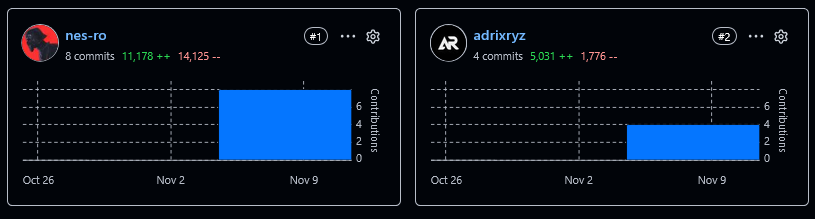
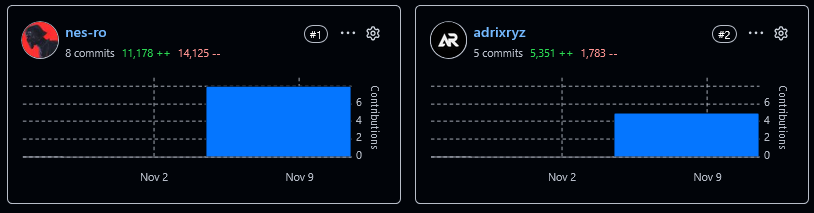
docs: corregir pequeños detalles

diff --git a/docs/42-sprint-2.md b/docs/42-sprint-2.md
@@ -191,10 +191,12 @@ La siguiente tabla reúne los commits de los repositorios en los que se trabajar
 | [spotgo-backend](https://github.com/yachiqo-upc/spotgo-backend) | feature/update-backend | 4d19261 | feat(monitoring): implement occupancy tracking, alerts and photo evidence, and integrate all five bounded contexts | 2026-11-10 |
 | [spotgo-backend](https://github.com/yachiqo-upc/spotgo-backend) | develop | 06a99f6 | feat: general guidelines for docs | 2026-11-11 |
 | [spotgo-backend](https://github.com/yachiqo-upc/spotgo-backend) | develop | e21fdf1 | feat: android app alignments | 2026-11-12 |
+| [spotgo-backend](https://github.com/yachiqo-upc/spotgo-backend) | develop | 33eff27 | feat: add driver account updates and seed data | 2026-11-12 |
 | [spotgo-android-app](https://github.com/yachiqo-upc/spotgo-android-app) | feature/auth-access-flow | d1fda5c | feat: add driver access flow with in-memory data layer | 2026-11-08 |
 | [spotgo-android-app](https://github.com/yachiqo-upc/spotgo-android-app) | feature/driver-workspace | ee730db | feat: add driver workspace screens and navigation | 2026-11-08 |
 | [spotgo-android-app](https://github.com/yachiqo-upc/spotgo-android-app) | feature/tests | 697e391 | test: add unit and instrumented test suites | 2026-11-08 |
 | [spotgo-android-app](https://github.com/yachiqo-upc/spotgo-android-app) | develop | f8b9205 | feat: backend connection | 2026-11-12 |
+| [spotgo-android-app](https://github.com/yachiqo-upc/spotgo-android-app) | develop | b5aac5b | feat: improve driver account and payment flows | 2026-11-12 |
 | [spotgo-flutter-app](https://github.com/yachiqo-upc/spotgo-flutter-app) | feature/parking-admin-flutter | 2bf176a | chore(flutter): configure theme and assets | 2026-11-07 |
 | [spotgo-flutter-app](https://github.com/yachiqo-upc/spotgo-flutter-app) | feature/parking-admin-flutter | 5db9354 | feat(auth): implement parking admin access | 2026-11-07 |
 | [spotgo-flutter-app](https://github.com/yachiqo-upc/spotgo-flutter-app) | feature/parking-admin-flutter | 6a05d2b | feat(navigation): add admin navigation | 2026-11-07 |
@@ -270,7 +272,7 @@ La siguiente tabla reúne los commits de los repositorios en los que se trabajar
 
 #### *4.2.2.7. Services Documentation Evidence for Sprint Review*
 
-La documentación OpenAPI/Swagger del Sprint 2 presenta los contratos REST del backend actual de SpotGo. El inventario revisado en el código contiene **32 recursos o rutas base**, que agrupan **121 operaciones HTTP**. Cada operación se identifica por su método y ruta completa: por ejemplo, `GET /api/v1/additional-charges` y `POST /api/v1/additional-charges` son dos operaciones del mismo recurso.
+La documentación OpenAPI/Swagger del Sprint 2 presenta los contratos REST del backend actual de SpotGo. El inventario revisado en el código contiene **32 recursos o rutas base**, que agrupan **122 operaciones HTTP**. Cada operación se identifica por su método y ruta completa: por ejemplo, `GET /api/v1/additional-charges` y `POST /api/v1/additional-charges` son dos operaciones del mismo recurso.
 
 **Inventario completo de servicios del backend para Sprint 2**
 
@@ -288,7 +290,7 @@ Por ejemplo, Additional charges permite listar (`GET`), crear (`POST`) y marcar 
 | `/api/v1/payment-tokens` | 4 | `GET /api/v1/payment-tokens`<br>`POST /api/v1/payment-tokens`<br>`PUT /api/v1/payment-tokens/{tokenId}/default`<br>`DELETE /api/v1/payment-tokens/{tokenId}` |
 | `/api/v1/refunds` | 3 | `GET /api/v1/refunds`<br>`POST /api/v1/refunds`<br>`POST /api/v1/refunds/{refundId}/process` |
 | `/api/v1/subscriptions` | 5 | `GET /api/v1/subscriptions`<br>`GET /api/v1/subscriptions/plans`<br>`GET /api/v1/subscriptions/plans/{code}/quote`<br>`GET /api/v1/subscriptions/{subscriptionId}`<br>`POST /api/v1/subscriptions/{subscriptionId}/cancel` |
-| `/api/v1/accounts` | 9 | `GET /api/v1/accounts/me`<br>`GET /api/v1/accounts`<br>`GET /api/v1/accounts/{accountId}`<br>`PATCH /api/v1/accounts/{accountId}/status`<br>`GET /api/v1/accounts/me/role`<br>`GET /api/v1/accounts/{accountId}/role`<br>`PUT /api/v1/accounts/{accountId}/role`<br>`POST /api/v1/accounts/parking-admin`<br>`PATCH /api/v1/accounts/me/password` |
+| `/api/v1/accounts` | 10 | `GET /api/v1/accounts/me`<br>`PUT /api/v1/accounts/me`<br>`GET /api/v1/accounts`<br>`GET /api/v1/accounts/{accountId}`<br>`PATCH /api/v1/accounts/{accountId}/status`<br>`GET /api/v1/accounts/me/role`<br>`GET /api/v1/accounts/{accountId}/role`<br>`PUT /api/v1/accounts/{accountId}/role`<br>`POST /api/v1/accounts/parking-admin`<br>`PATCH /api/v1/accounts/me/password` |
 | `/api/v1/audit-entries` | 1 | `GET /api/v1/audit-entries` |
 | `/api/v1/authentication` | 8 | `POST /api/v1/authentication/sign-in`<br>`POST /api/v1/authentication/google`<br>`POST /api/v1/authentication/google/link`<br>`POST /api/v1/authentication/sign-up`<br>`POST /api/v1/authentication/refresh`<br>`POST /api/v1/authentication/sign-out`<br>`POST /api/v1/authentication/password-reset/request`<br>`POST /api/v1/authentication/password-reset/confirm` |
 | `/api/v1/sessions` | 2 | `GET /api/v1/sessions/me`<br>`DELETE /api/v1/sessions/{sessionId}` |
@@ -313,7 +315,7 @@ Por ejemplo, Additional charges permite listar (`GET`), crear (`POST`) y marcar 
 | `/api/v1/profiles` | 3 | `POST /api/v1/profiles`<br>`GET /api/v1/profiles/me`<br>`PUT /api/v1/profiles/me` |
 | `/api/v1/vehicles` | 4 | `GET /api/v1/vehicles`<br>`POST /api/v1/vehicles`<br>`PATCH /api/v1/vehicles/{vehicleId}`<br>`DELETE /api/v1/vehicles/{vehicleId}` |
 
-**Diferencia respecto del Sprint 1:** de las 121 operaciones HTTP del backend actual, 12 coinciden en método HTTP y ruta con la tabla del Sprint 1. Las otras 109 presentan una ruta distinta, un método HTTP distinto o ambos, o corresponden a servicios actualizados que no figuraban en dicha tabla.
+**Diferencia respecto del Sprint 1:** de las 122 operaciones HTTP del backend actual, 12 coinciden en método HTTP y ruta con la tabla del Sprint 1. Las otras 110 presentan una ruta distinta, un método HTTP distinto o ambos, o corresponden a servicios actualizados que no figuraban en dicha tabla.
 
 **Documentación y condiciones de uso**
 
